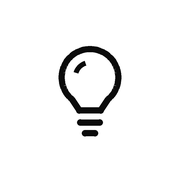
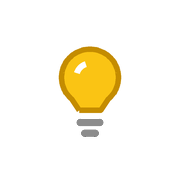
Ícone de lâmpada amarela
Claude-Session: https://claude.ai/code/session_018xK15feYLqgjkdUUoTKF4Z

Changed region(s): [[0.3056, 0.25, 0.6944, 0.6389], [0.4167, 0.6667, 0.5833, 0.7778]]

diff --git a/sw.js b/sw.js
@@ -1,6 +1,6 @@
 // Guarda o app no aparelho para abrir rápido e funcionar sem internet.
 // Ao abrir, mostra a versão guardada e busca a mais nova em segundo plano.
-const CACHE = 'notas-v5';
+const CACHE = 'notas-v6';
 const SHELL = ['./', 'index.html', 'manifest.webmanifest', 'icon-192.png', 'icon-512.png', 'apple-touch-icon.png'];
 self.addEventListener('install', e => {
   e.waitUntil(caches.open(CACHE).then(c => c.addAll(SHELL)));
